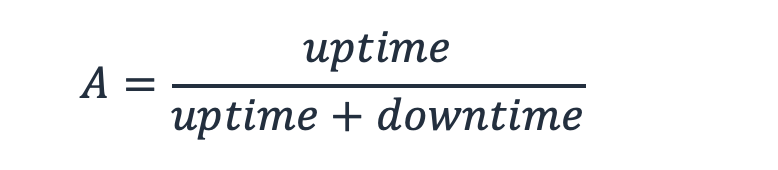
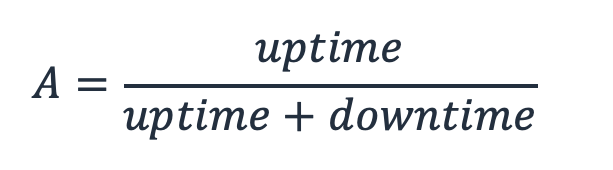
resilience-essentials use latex (not png) for equations

diff --git a/concepts/resilience-essentials/index.md b/concepts/resilience-essentials/index.md
@@ -105,13 +105,17 @@ High availability is about resilience against the smaller, more frequent faults 
  
 Availability is one of the primary ways we can quantitatively measure resiliency. We define availability, A, as the percentage of time that a workload is available for use. It’s a ratio of its expected “uptime” (being available) to the total time being measured (the expected “uptime” plus the expected “downtime”).
  
-![uptime / (uptime + downtime)](images/equation1.png)
+<!-- ![uptime / (uptime + downtime)](images/equation1.png) -->
+
+$$ A = \frac{uptime}{uptime + downtime} $$
  
 The result of this calculation is often called "the nines" of availability, where for example a value of 99.99% is called "four nines of availability".
  
-Mean time to repair (or recovery) (MTTR) and mean time between failure (MTBF) are other measures and can be related to Availability (A) via this equation.
+Mean time to repair (or recovery) (_MTTR_) and mean time between failure (_MTBF_) are other measures and can be related to Availability (_A_) via this equation.
 
-![A = MTBF / (MTBF + MTTR)](images/equation2.png)
+<!-- ![A = MTBF / (MTBF + MTTR)](images/equation2.png) -->
+
+$$ A = \frac{MTBF}{MTBF + MTTR} $$
 
 To learn more about measuring availability see the whitepaper [Availability and Beyond: Understanding and Improving the Resilience of Distributed Systems on AWS](https://docs.aws.amazon.com/whitepapers/latest/availability-and-beyond-improving-resilience/availability-and-beyond-improving-resilience.html)
  
